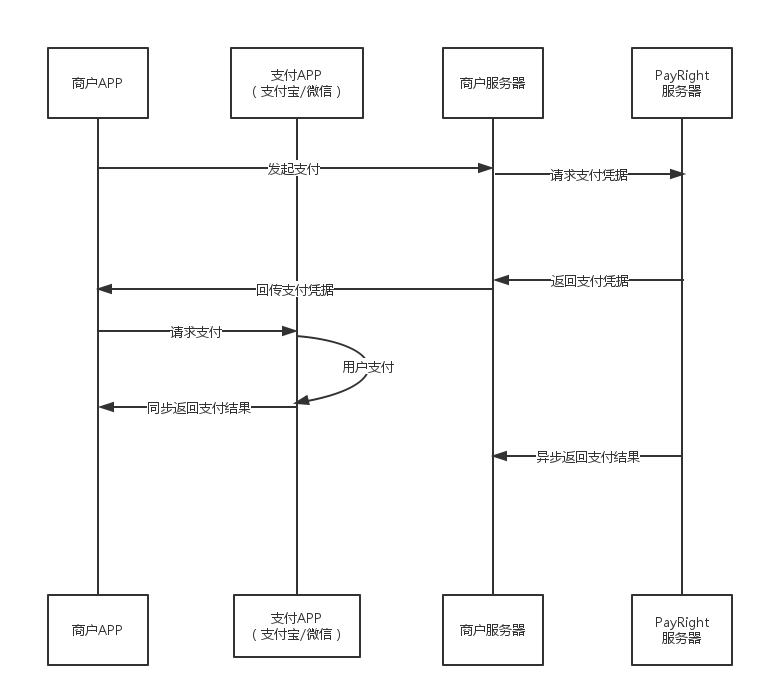
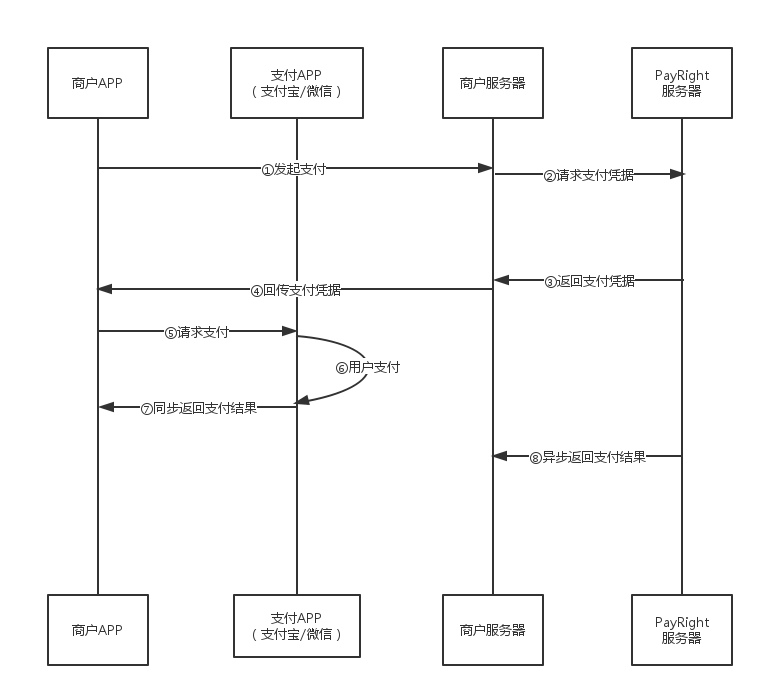
更新流程图片

diff --git a/流程.md b/流程.md
@@ -41,11 +41,11 @@ PayRight的交易类型有两种，支付和退款。
 
 
 1. 商户APP需要接入对应平台的Client SDK，商户服务器需要接入相应语言的Server SDK或者自行调用PayRight API
-2. 在商户APP上需要付款时，通过商户APP向商户服务器发起支付请求，商户服务器拿到支付请求时，将支付要素提交给PayRight服务器请求支付凭据
-3. 请求成功后，PayRight服务器会返回该笔支付的支付凭据；商户服务器拿到支付凭据，校验过合法性之后，就可以将其回传给商户APP
-4. 商户APP拿到服务器回传过来的支付凭据，调用Client SDK的接口调起支付应用（微信、支付宝等），用户在应用中完成支付
-5. 支付完成之后，Client SDK会向用户APP同步返回支付结果，客户端根据返回结果提示用户支付结果。
-6. 同时，PayRight服务器会主动向商户的服务器通知支付结果，请以此支付结果为准。
+2. 在商户APP上需要付款时，通过商户APP向商户服务器发起支付请求①，商户服务器拿到支付请求时，将支付要素提交给PayRight服务器请求支付凭据②
+3. 请求成功后，PayRight服务器会返回该笔支付的支付凭据③；商户服务器拿到支付凭据，校验过合法性之后，就可以将其回传给商户APP④
+4. 商户APP拿到服务器回传过来的支付凭据，调用Client SDK的接口调起支付应用（微信、支付宝等）⑤，用户在应用中完成支付⑥
+5. 支付完成之后，Client SDK会向用户APP同步返回支付结果，客户端根据返回结果提示用户支付结果⑦。
+6. 同时，PayRight服务器会主动向商户的服务器通知支付结果⑧，请以此支付结果为准。
 
 
 ### 退款流程
@@ -74,8 +74,8 @@ PayRight的交易类型有两种，支付和退款。
 
 
 
-1. 商户服务器向PayRight服务器发起退款请求（可以通过接入Server SDK或者自行调用PayRight API来实现）
-2. 请求成功后，PayRight服务器会返回退款凭据
-3. 当退款完成之后，PayRight服务器会主动向商户服务器通知退款结果
+1. 商户服务器向PayRight服务器发起退款请求①（可以通过接入Server SDK或者自行调用PayRight API来实现）
+2. 请求成功后，PayRight服务器会返回退款凭据②
+3. 当退款完成之后，PayRight服务器会主动向商户服务器通知退款结果③
 
 各渠道的退款流程有所不同，具体请参考“关于渠道和退款”。
